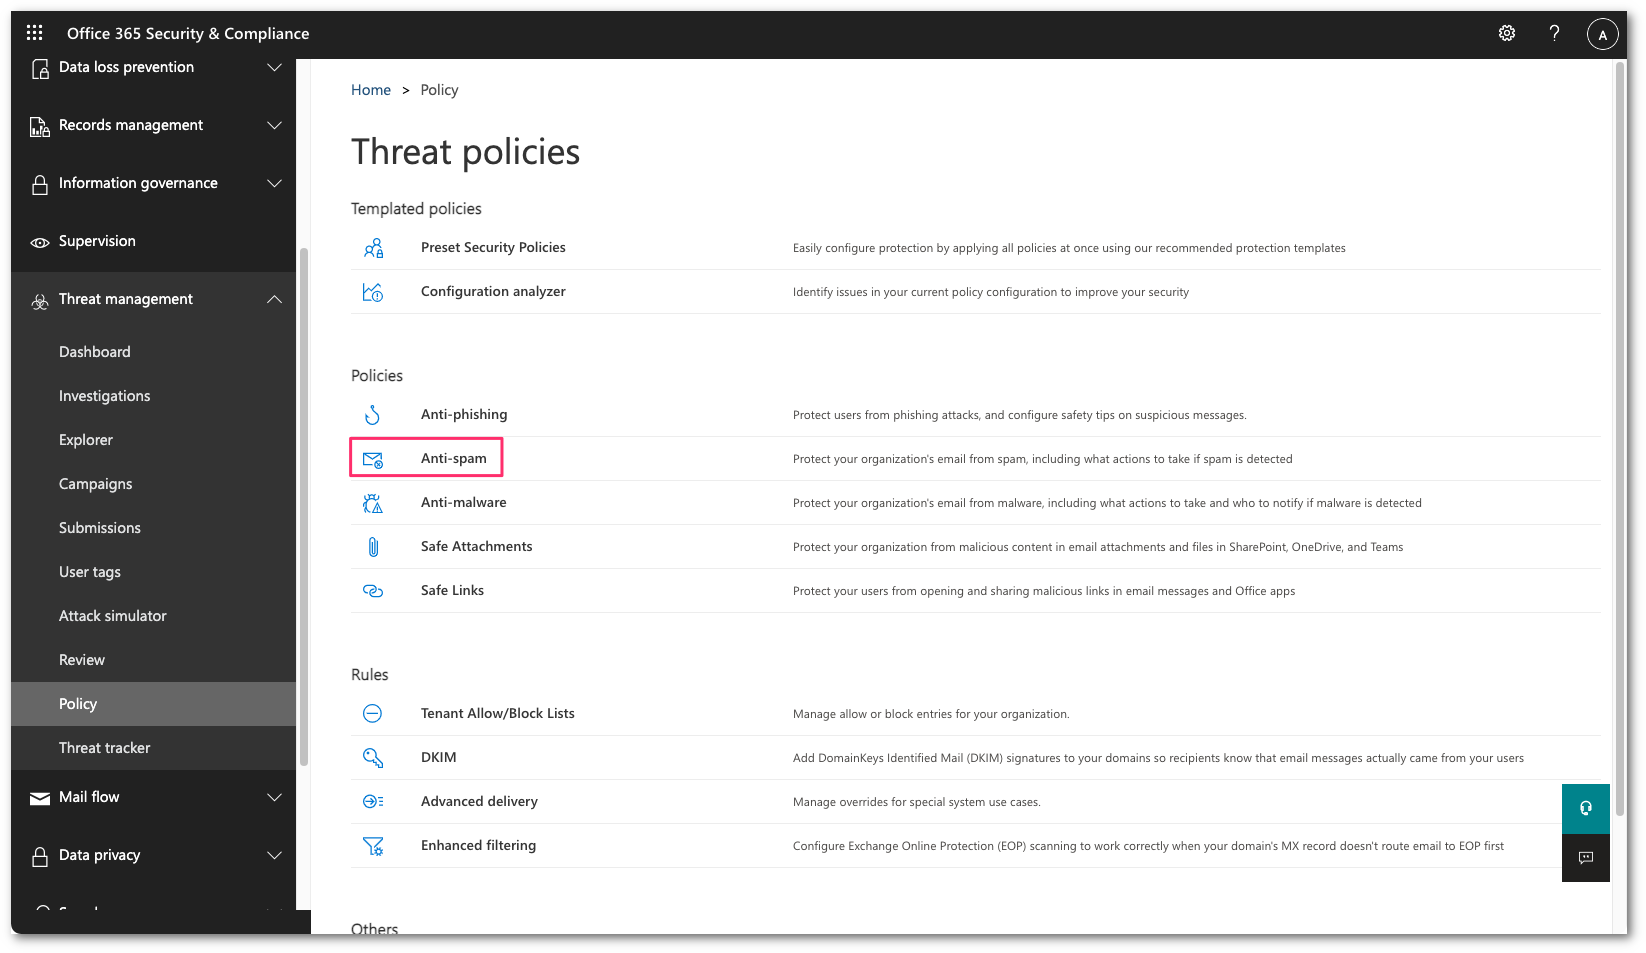
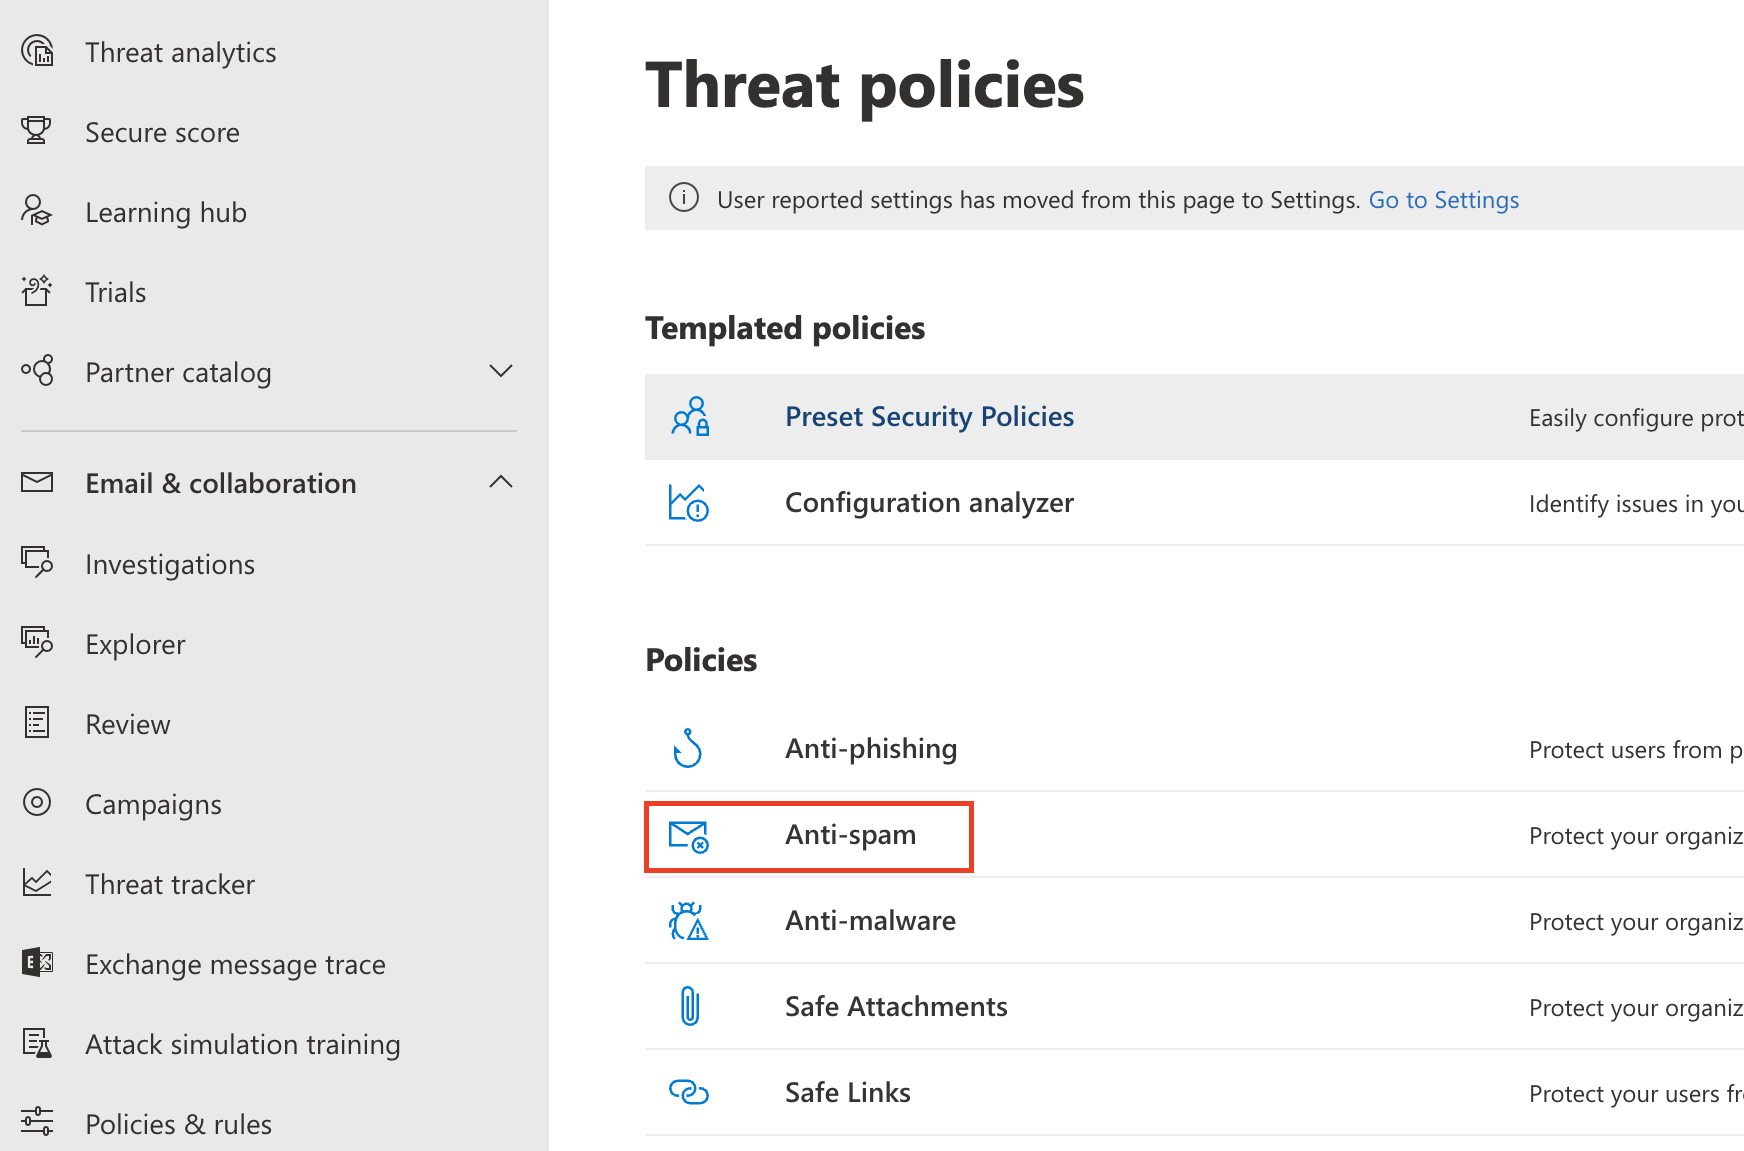
updated steps and imgs

diff --git a/content/email-security/deployment/inline/setup/office-365-area1-mx/_index.md b/content/email-security/deployment/inline/setup/office-365-area1-mx/_index.md
@@ -22,9 +22,9 @@ Changing the TTL value instructs DNS servers on how long to cache this value bef
 To check your existing TTL, open a terminal window and run the following command against your domain:
 
 ```sh
-$ dig mx domain
+$ dig mx <YOUR_DOMAIN>
 
-; <<>> DiG 9.10.6 <<>> mx domain
+; <<>> DiG 9.10.6 <<>> mx <YOUR_DOMAIN>
 ;; global options: +cmd
 ;; Got answer:
 ;; ->>HEADER<<- opcode: QUERY, status: NOERROR, id: 39938
@@ -36,14 +36,14 @@ $ dig mx domain
 ;domain.		IN	MX
 
 ;; ANSWER SECTION:
-domain.	300	IN	MX	10 mailstream-east.mxrecord.io.
-domain.	300	IN	MX	10 mailstream-west.mxrecord.io.
-domain.	300	IN	MX	20 mailstream-central.mxrecord.mx.
+<YOUR_DOMAIN>.	300	IN	MX	10 mailstream-east.mxrecord.io.
+<YOUR_DOMAIN>.	300	IN	MX	10 mailstream-west.mxrecord.io.
+<YOUR_DOMAIN>.	300	IN	MX	20 mailstream-central.mxrecord.mx.
 ```
 
-In the above example, TTL is shown in seconds, as `300` (or five minutes). 
+In the above example, TTL is shown in seconds as `300` (or five minutes). 
 
-If you are using Cloudflare for DNS, you can leave the [TTL setting as **Auto**](/dns/manage-dns-records/reference/ttl/)
+If you are using Cloudflare for DNS, you can leave the [TTL setting as **Auto**](/dns/manage-dns-records/reference/ttl/).
 
 Bellow is a list with instrunctions on how to edit MX records for some popular services:
 
@@ -58,22 +58,23 @@ Bellow is a list with instrunctions on how to edit MX records for some popular s
 
 1. Go to the [Microsoft Security admin center](https://security.microsoft.com/homepage).
 
-2. In the **Threat management** section, select [**Policy settings**](https://security.microsoft.com/threatpolicy).
-
-    ![Select threat management](/email-security/static/inline-setup/o365-area1-mx/step2-threat-management.png)
+2. Go to **Policies & Rules** > **Threat policies**.
 
 3. Select the [Anti-spam option](https://security.microsoft.com/antispam).
 
     ![Select the anti-spam option](/email-security/static/inline-setup/o365-area1-mx/step3-anti-spam.png)
 
-4. Select **Connection filter policy (Default)** to edit the policy, and then select **Edit connection filter policy**.
+4. Select **Connection filter policy (Default)** > **Edit connection filter policy**.
 
     ![Select edit connection filter policy](/email-security/static/inline-setup/o365-area1-mx/step4-edit-filter-policy.png)
 
 5. In **Always allow messages from the following IP addresses or address range** add the IP addresses and CIDR blocks mentioned in [Egress IPs](/email-security/deployment/inline/reference/egress-ips/).
 
+    <div class="large-img">
+
     ![Enter the egress IP addresses](/email-security/static/inline-setup/o365-area1-mx/step5-egress-ips.png)
 
+    </div>
 6. Select **Save**.
 
 {{<Aside type="note">}}
